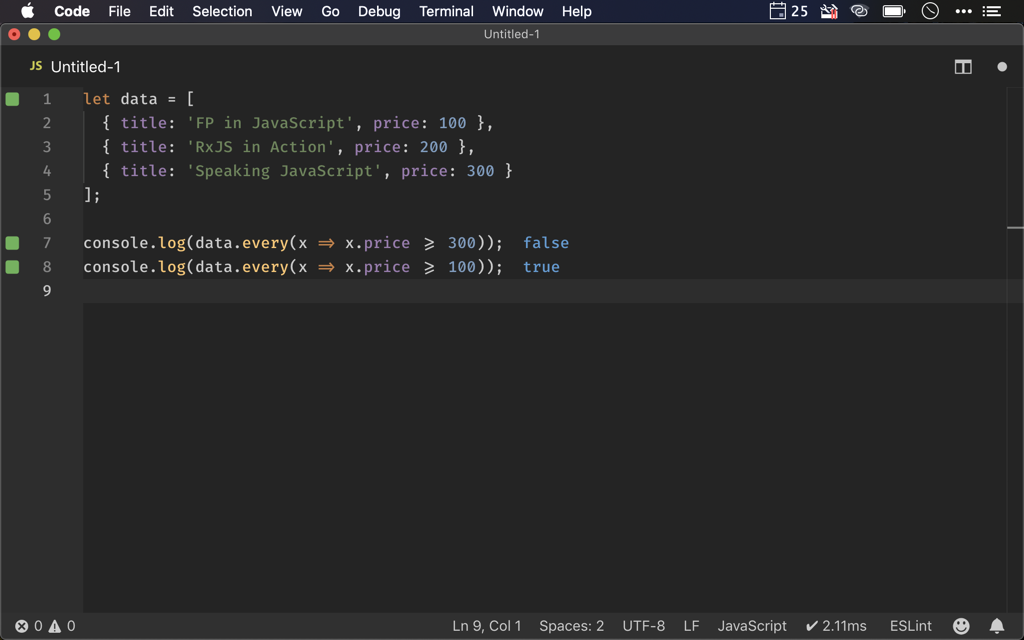
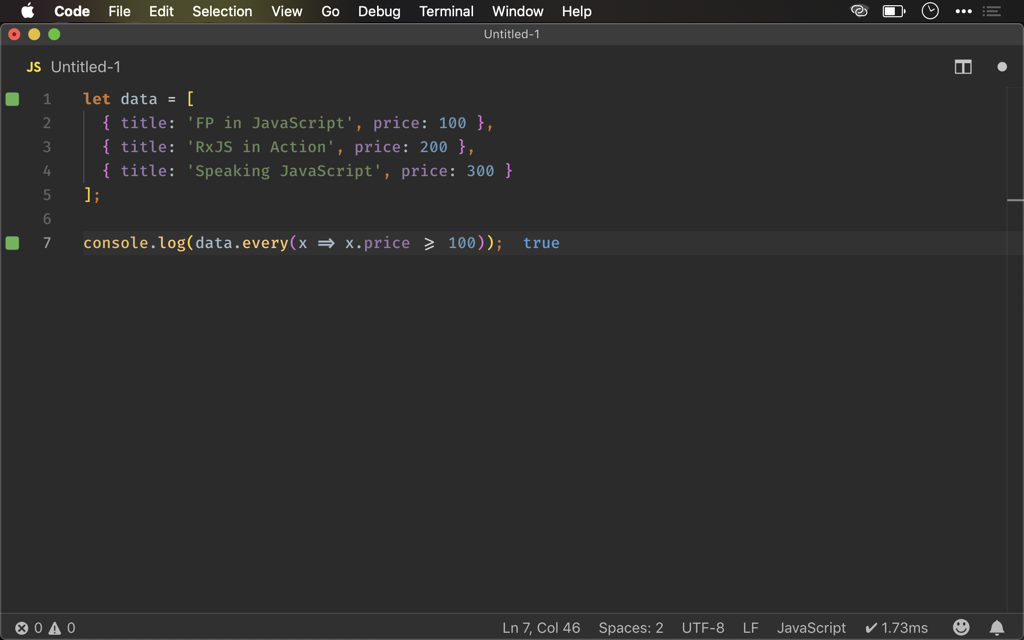
Ramda 之 all()

diff --git a/source/_posts/ramda/all.md b/source/_posts/ramda/all.md
@@ -4,7 +4,7 @@ tags:
   - Ramda/all
   - Ramda/propSatisfies
 feature: images/feature/ramda.png
-date: 2019-04-10 15:23:43
+date: 2019-05-15 13:23:43
 ---
 實務上我們常需判斷 Array 是否全部符合某條件，若存在則傳回 `true`，若不存在則傳回 `false`。
 
@@ -25,15 +25,18 @@ let data = [
   { title: 'Speaking JavaScript', price: 300 }
 ];
 
-let all = cb => arr => {
+// all :: (a -> Boolean) -> [a] -> Boolean
+let all = pred => arr => {
   for (let elem of arr) {
-    if (!cb(elem)) return false;
+    if (!pred(elem)) return false;
   }
   return true;
 };
 
-console.log(all(x => x.price >= 300)(data));
-console.log(all(x => x.price >= 100)(data));
+// fn :: [a] -> Boolean
+let fn = all(x => x.price >= 100);
+
+console.log(fn(data));
 ```
 
 建立 `all()`，imperative 會使用 `for` loop 搭配 `if` 判斷，若不符合條件就直接回傳  `false` 結束，若都符合條件則回傳 `true`。
@@ -49,7 +52,6 @@ let data = [
   { title: 'Speaking JavaScript', price: 300 }
 ];
 
-console.log(data.every(x => x.price >= 300));
 console.log(data.every(x => x.price >= 100));
 ```
 
@@ -70,8 +72,10 @@ let data = [
   { title: 'Speaking JavaScript', price: 300 }
 ];
 
-console.log(all(propSatisfies(gte(__, 300), 'price'))(data));
-console.log(all(propSatisfies(gte(__, 100), 'price'))(data));
+// fn :: [a] -> Boolean
+let fn = all(propSatisfies(gte(__, 100), 'price'));
+
+console.log(fn(data));
 ```
 
 事實上 Ramda 已經內建 `all()` ，且 callback 也可改用 `propSatisfies()` 與 `gte()` 產生，語意更佳。
